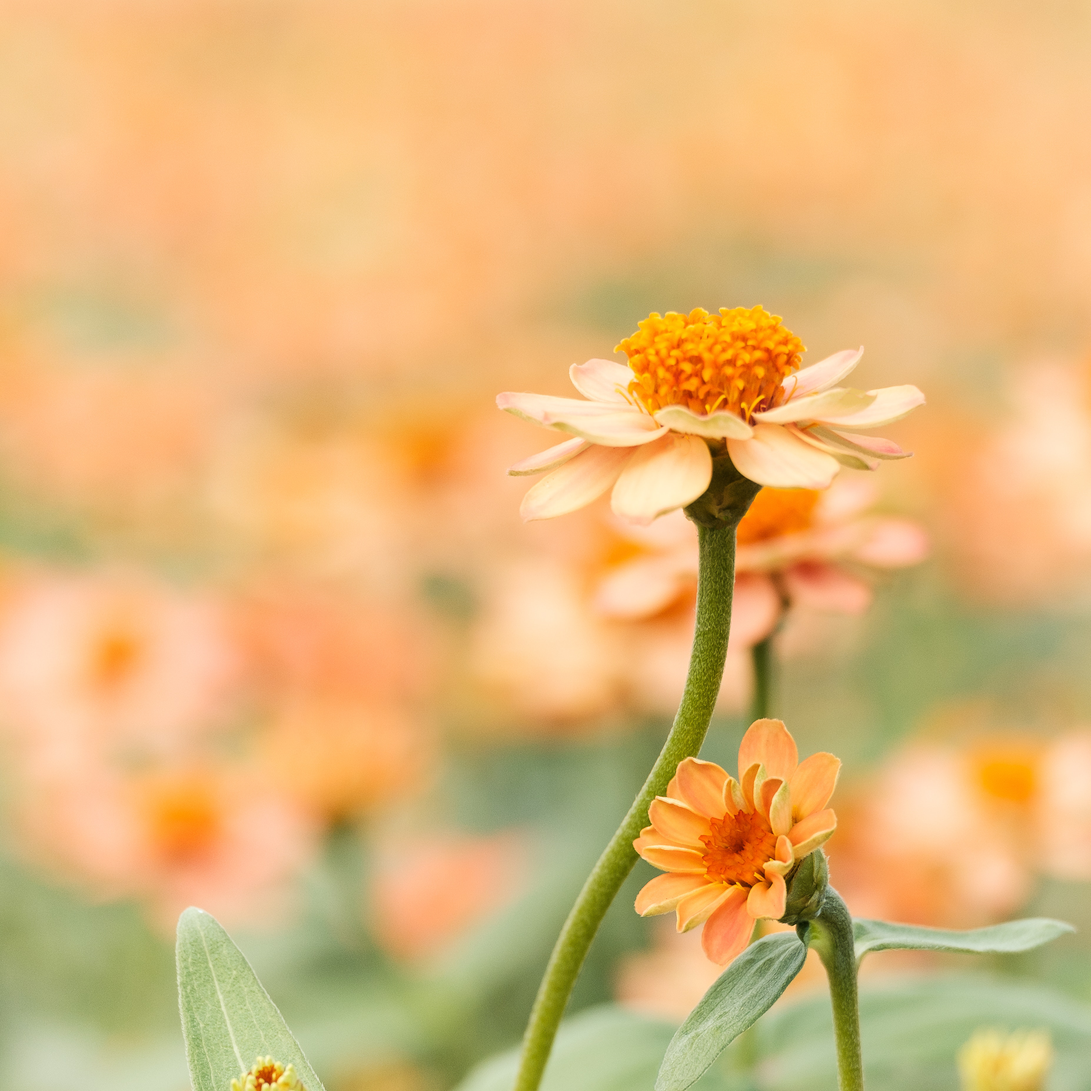
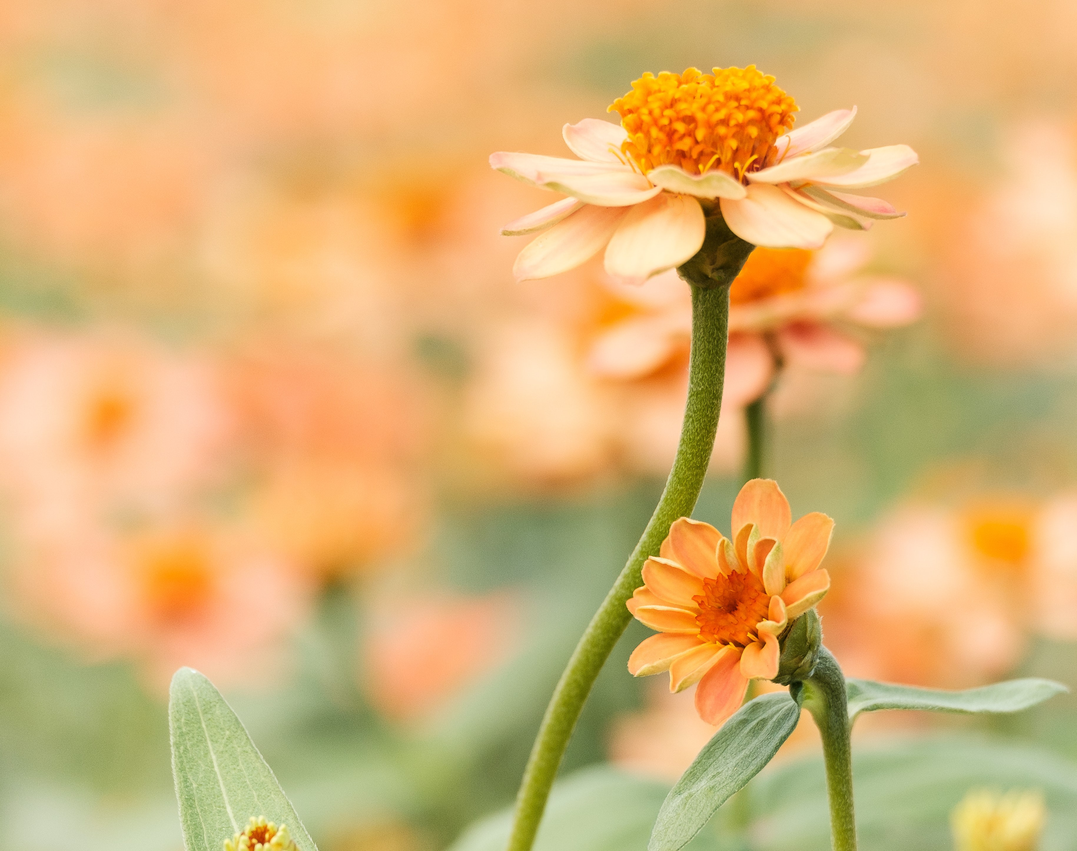
Replaced home page image with cropped version

diff --git a/assets/CSS/styles.css b/assets/CSS/styles.css
@@ -18,15 +18,13 @@ a {
     border: 0;
 }
 
-body {
-    height: 100vh;
-}
 
 /* Set a background color and text color for the entire page */
 body {
     background-color: #E7DFC6;
     color: #131B23;
     font-family: 'Josefin Sans', sans-serif;
+    height: 100vh;
 }
 
 /* Style the header */
